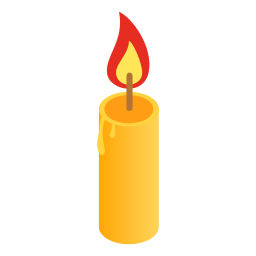
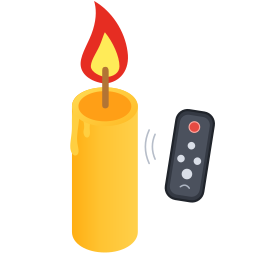
Next commit

Changed region(s): [[0.25, 0.0, 0.8438, 1.0]]

diff --git a/custom_components/ir_candles/button.py b/custom_components/ir_candles/button.py
@@ -23,36 +23,48 @@ class IRCandlesButtonDescription(ButtonEntityDescription):
 
 
 BUTTON_DESCRIPTIONS: tuple[IRCandlesButtonDescription, ...] = (
+    # IRCandlesButtonDescription(
+    #     key="brightness_up",
+    #     translation_key="brightness_up",
+    #     icon="mdi:brightness-7",
+    #     command_code=IRCandlesCode.BRIGHTNESS_UP,
+    # ),
+    # IRCandlesButtonDescription(
+    #     key="brightness_down",
+    #     translation_key="brightness_down",
+    #     icon="mdi:brightness-5",
+    #     command_code=IRCandlesCode.BRIGHTNESS_DOWN,
+    # ),
     IRCandlesButtonDescription(
-        key="brightness_up",
-        translation_key="brightness_up",
-        icon="mdi:brightness-7",
-        command_code=IRCandlesCode.BRIGHTNESS_UP,
+        key="flickering",
+        translation_key="flickering",
+        icon="mdi:lightbulb-on-outline",
+        command_code=IRCandlesCode.FLICKERING,
     ),
     IRCandlesButtonDescription(
-        key="brightness_down",
-        translation_key="brightness_down",
-        icon="mdi:brightness-5",
-        command_code=IRCandlesCode.BRIGHTNESS_DOWN,
+        key="steady",
+        translation_key="steady",
+        icon="mdi:lightbulb-outline",
+        command_code=IRCandlesCode.STEADY,
     ),
-    IRCandlesButtonDescription(
-        key="timer_2h",
-        translation_key="timer_2h",
-        icon="mdi:timer-outline",
-        command_code=IRCandlesCode.TIMER_2H,
-    ),
+    # IRCandlesButtonDescription(
+    #     key="timer_2h",
+    #     translation_key="timer_2h",
+    #     icon="mdi:timer-outline",
+    #     command_code=IRCandlesCode.TIMER_2H,
+    # ),
     IRCandlesButtonDescription(
         key="timer_4h",
         translation_key="timer_4h",
         icon="mdi:timer-outline",
         command_code=IRCandlesCode.TIMER_4H,
     ),
-    IRCandlesButtonDescription(
-        key="timer_6h",
-        translation_key="timer_6h",
-        icon="mdi:timer-outline",
-        command_code=IRCandlesCode.TIMER_6H,
-    ),
+    # IRCandlesButtonDescription(
+    #     key="timer_6h",
+    #     translation_key="timer_6h",
+    #     icon="mdi:timer-outline",
+    #     command_code=IRCandlesCode.TIMER_6H,
+    # ),
     IRCandlesButtonDescription(
         key="timer_8h",
         translation_key="timer_8h",

diff --git a/custom_components/ir_candles/const.py b/custom_components/ir_candles/const.py
@@ -1,11 +1,11 @@
 """Constants for the IR Candles integration."""
 
+import logging
 from enum import IntEnum
-from logging import Logger, getLogger
 
 from infrared_protocols.commands.nec import NECCommand
 
-LOGGER: Logger = getLogger(__package__)
+_LOGGER = logging.getLogger(__name__)
 
 DOMAIN = "ir_candles"
 
@@ -17,14 +17,23 @@ _BRIGHTNESS_NEC_ADDRESS = 0x08B7  # Extended NEC — no address parity
 class IRCandlesCode(IntEnum):
     """IR command codes for the IRCandles FB-0001 remote."""
 
-    ON = 0x5E
-    OFF = 0x0C
-    BRIGHTNESS_UP = 0x12
-    BRIGHTNESS_DOWN = 0x10
-    TIMER_2H = 0x46
-    TIMER_4H = 0x40
-    TIMER_6H = 0x15
-    TIMER_8H = 0x19
+    ON = 0x00
+    OFF = 0x02
+    FLICKERING = 0x10
+    STEADY = 0x12
+    TIMER_4H = 0x08
+    TIMER_8H = 0x0A
+    BRIGHTNESS_UP = 0x82
+    BRIGHTNESS_DOWN = 0x80
+
+    # ON = 0x5E
+    # OFF = 0x0C
+    # BRIGHTNESS_UP = 0x12
+    # BRIGHTNESS_DOWN = 0x10
+    # TIMER_2H = 0x46
+    # TIMER_4H = 0x40
+    # TIMER_6H = 0x15
+    # TIMER_8H = 0x19
 
     def to_command(self) -> NECCommand:
         """Return a NECCommand for this button press."""

diff --git a/custom_components/ir_candles/light.py b/custom_components/ir_candles/light.py
@@ -39,7 +39,6 @@ class IRCandlesLight(IRCandlesEntity, LightEntity, RestoreEntity):
     """IR Candles candle — light entity."""
 
     _attr_color_mode = ColorMode.BRIGHTNESS
-    _attr_supported_color_modes = {ColorMode.BRIGHTNESS}
     _attr_assumed_state = True
     _attr_icon = "mdi:candle"
     # Main entity for the device — name comes from the device name alone
@@ -50,6 +49,7 @@ class IRCandlesLight(IRCandlesEntity, LightEntity, RestoreEntity):
         super().__init__(entry, infrared_entity_id, unique_id_suffix="light")
         self._attr_is_on = False
         self._attr_brightness: int = 255
+        self._attr_supported_color_modes = {ColorMode.BRIGHTNESS}
 
     async def async_added_to_hass(self) -> None:
         """Restore last known state on startup."""
